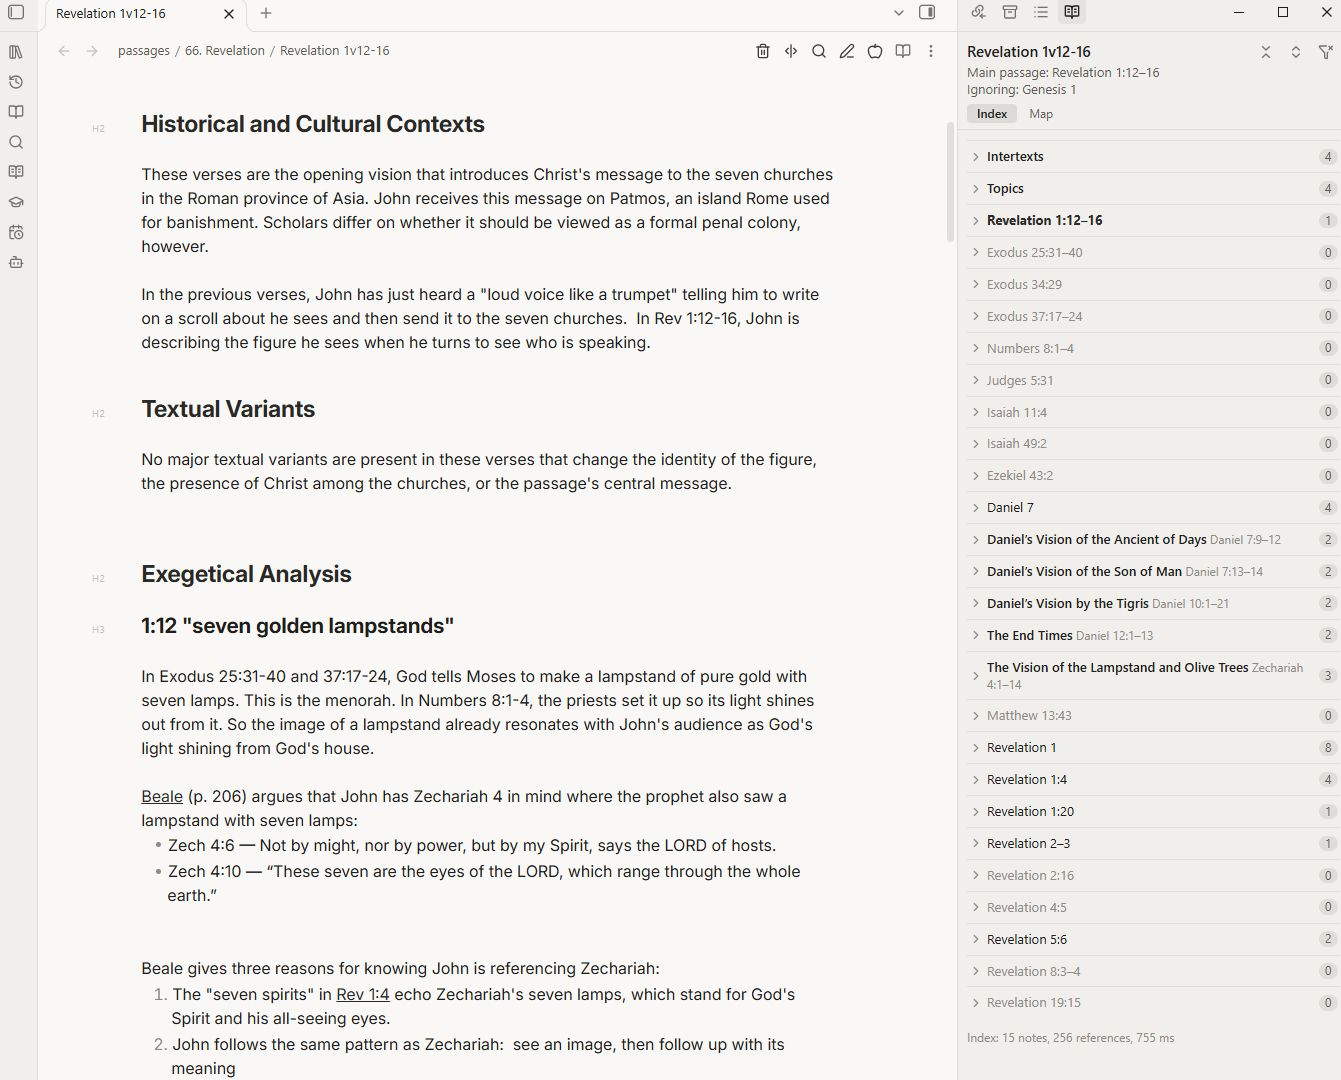
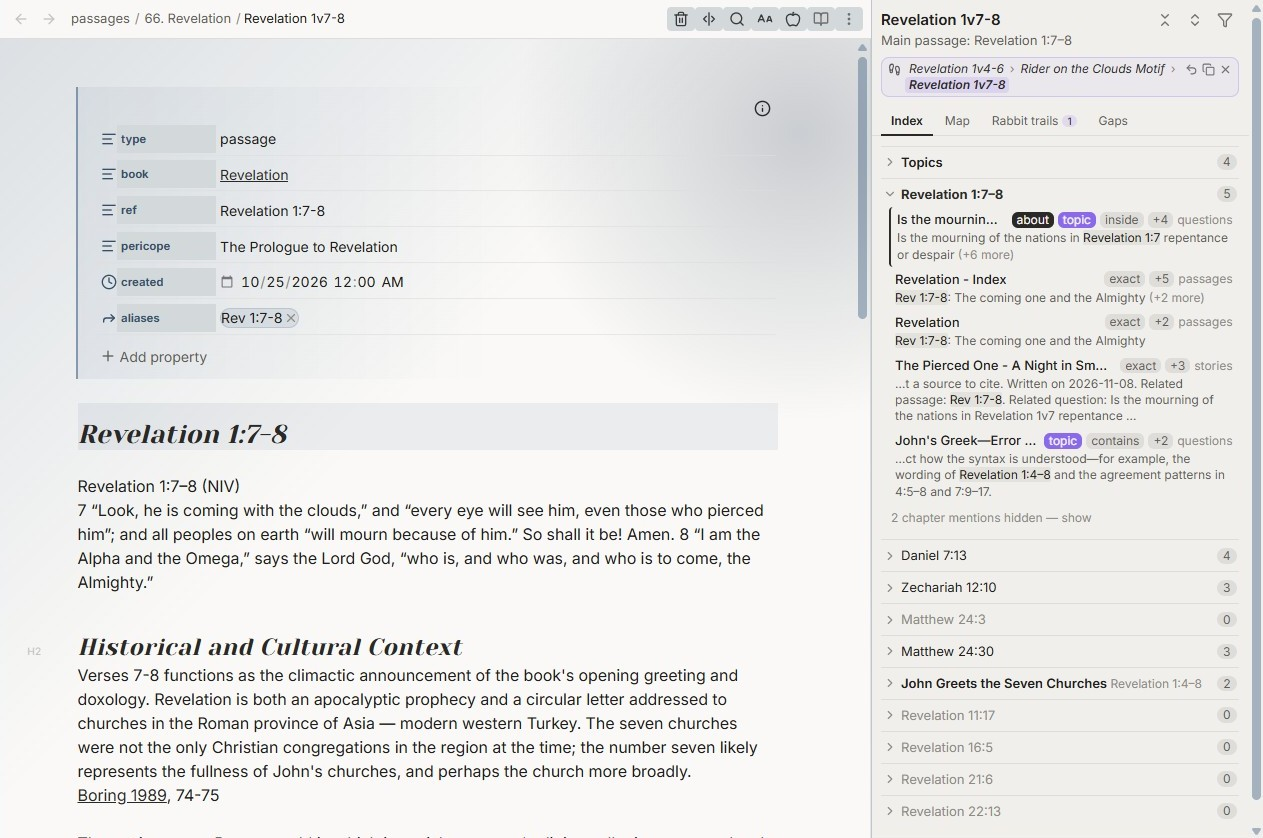
README: 0.2.0 screenshots
New: trail, Start a note, rabbit trails, Gaps, Also cited with. Retaken
with the new header: main view, pane, topics, intertexts, map.

Changed region(s): [[0.0, 0.0, 1.0, 1.0], [0.9881, 0.9928, 1.0, 1.0], [0.8646, 0.1241, 0.8955, 0.1551]]

diff --git a/README.md b/README.md
@@ -35,7 +35,7 @@ The pane has four tabs: **Index**, **Map**, **Rabbit trails** and **Gaps**. The 
 - **Hold Ctrl** (Cmd on a Mac) and point at a passage heading to read the verses (see *Verse pop-up*).
 - A passage with no other notes says so, with **Start a note** (see below).
 
-![Passage groups opened, with results tagged about, exact, inside and chapter](images/pane-sidebar.jpg)
+![The pane for Revelation 1:7–8: the trail, the tabs, and passage groups with results tagged about, topic, exact, inside and contains](images/pane-sidebar.jpg)
 
 #### Right-click a result
 
@@ -61,6 +61,8 @@ Open a note from the pane and a trail starts: the note you were reading, then ea
 - Long trails fold in the middle; click **…** for the hidden steps.
 - The buttons at the end go back to the start, copy the trail as links (`[[A]] → [[B]] → [[C]]`), or end it.
 
+![A trail of three notes above the pane's tabs](images/trail.jpg)
+
 The trail is kept until you end it or restart Obsidian. Where the notes open is a setting: a new tab for each, or one trail tab that's reused.
 
 ### Start a note
@@ -74,6 +76,8 @@ Trail: [[Revelation 1v7-8]] → [[Rider on the Clouds Motif]] → Psalms 68:4
 ```
 
 The note opens with the cursor below that line and becomes the next step of the trail.
+
+![The Start a note window for Psalms 68:4, with the trail that led there](images/start-note.jpg)
 
 ### Rabbit trails
 
@@ -89,11 +93,13 @@ A passage you want to look into later, without leaving what you're reading. Righ
 
 The rabbit-trails note isn't listed under passages and isn't counted in the Map.
 
+![The Rabbit trails tab with a saved passage, tagged as saved from this note](images/rabbit-trails.jpg)
+
 ### Topics
 
 Lists topic notes that share a passage with the note you're reading, unlinked ones first, so you can see which topics you haven't linked yet. Which notes count as topics is set in the *Topics* tab.
 
-![Topic notes sharing Daniel 7 with the current note; a linked one is marked](images/topics.jpg)
+![Topic notes that share passages with the current note, and the passages they share](images/topics.jpg)
 
 ### Intertexts
 
@@ -142,6 +148,8 @@ A coverage map of the main passage's book: one square per chapter, shaded by how
 
 **Also cited with**, below a chapter's verses, lists the other chapters that notes on this chapter cite, most notes first: *Notes on Rev 1 also cite Dan 7 · 4, Zech 12 · 3 …* Select a verse and it narrows to notes citing that verse. Click a chapter to see the notes and the verses they cite there (`7:9, 7:13–14`); click a note to open it at the reference. Ctrl-hover a chapter to read it.
 
+![Revelation 1 in the Map tab: its verses, the chapters its notes also cite, and the notes citing Daniel 7](images/also-cited.jpg)
+
 The command **Insert coverage map** adds a live `pi-map` code block to a note:
 
 ````
@@ -158,6 +166,8 @@ Verses your notes cite that have no note of their own: a list of what you might 
 - Open a row to see the notes that cite it; click one to open it at the reference.
 - **Start a note** from the row, or right-click to save it as a rabbit trail or copy the reference. Passages already saved as rabbit trails are tagged.
 - A row disappears as soon as a note on that passage exists.
+
+![The Gaps tab, most cited first, with Isaiah 41:4 opened to the notes that cite it](images/gaps.jpg)
 
 ## Verse pop-up
 
